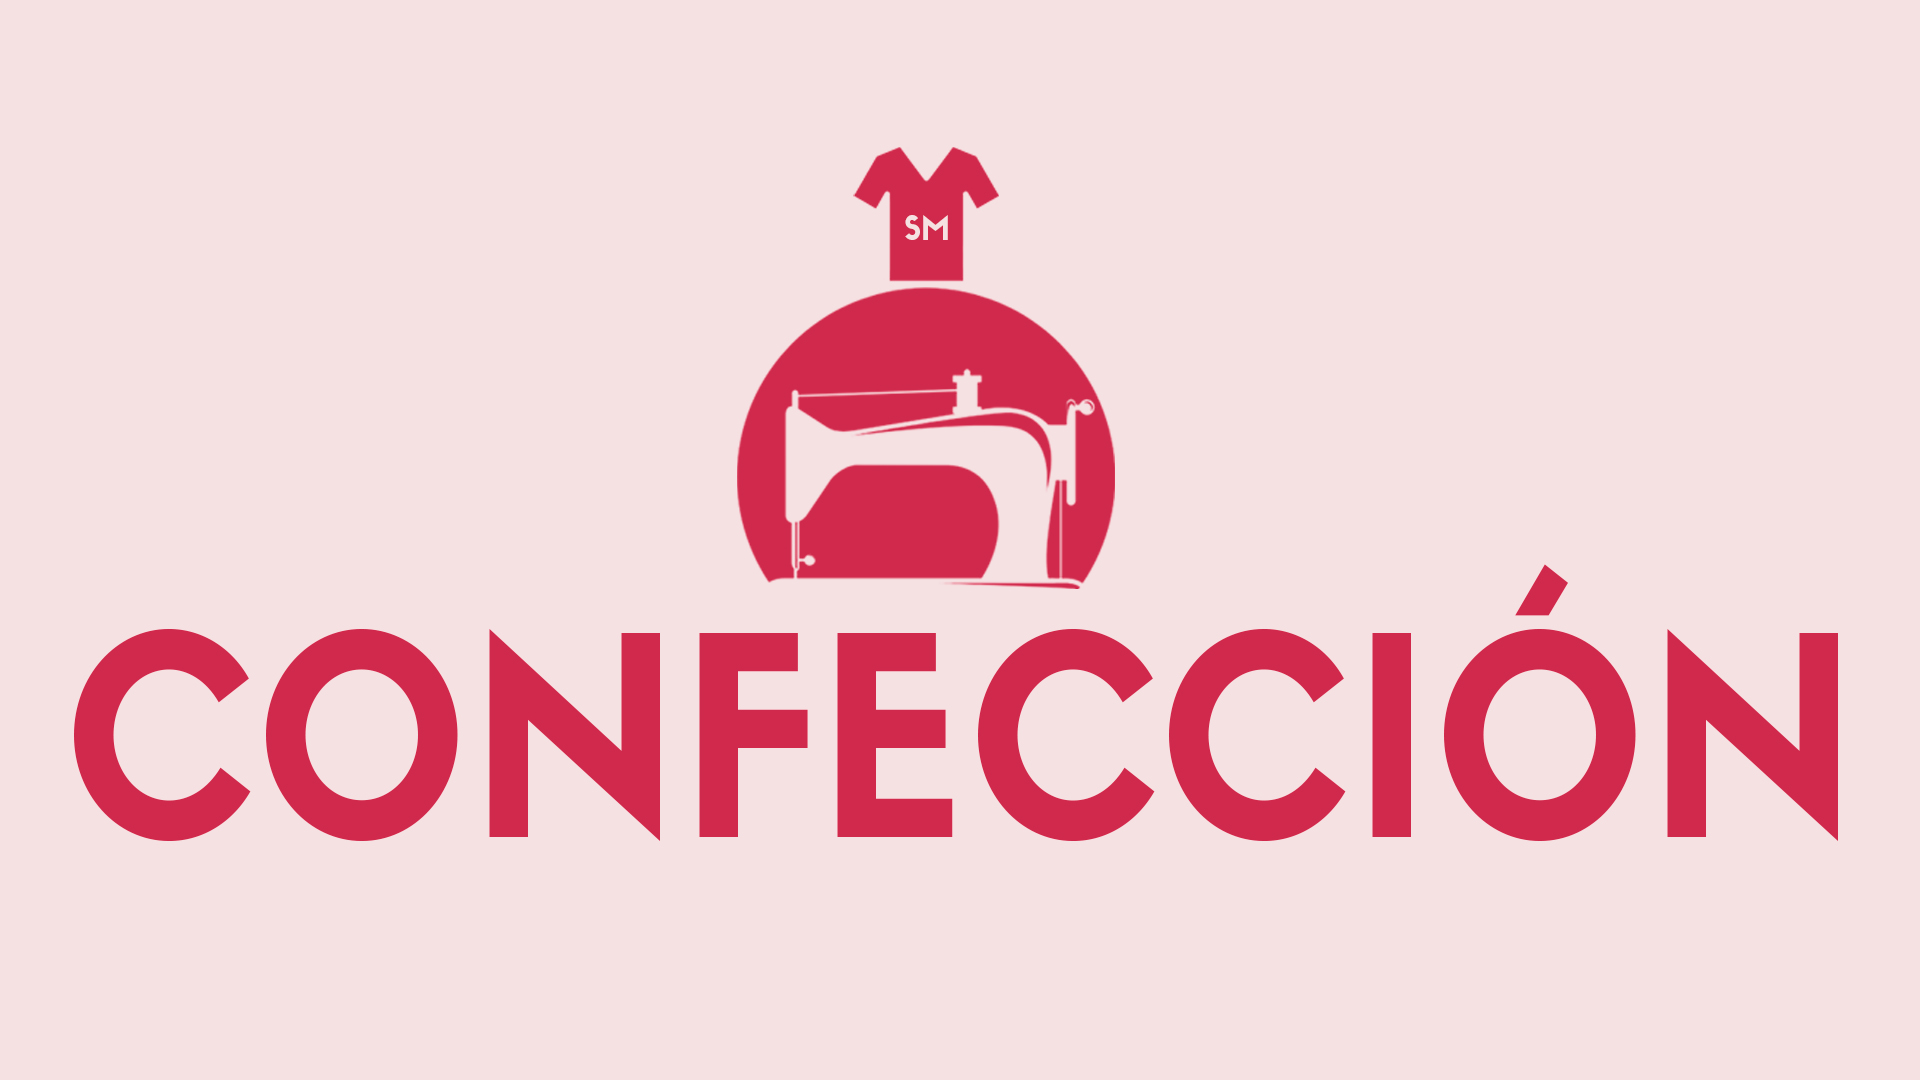
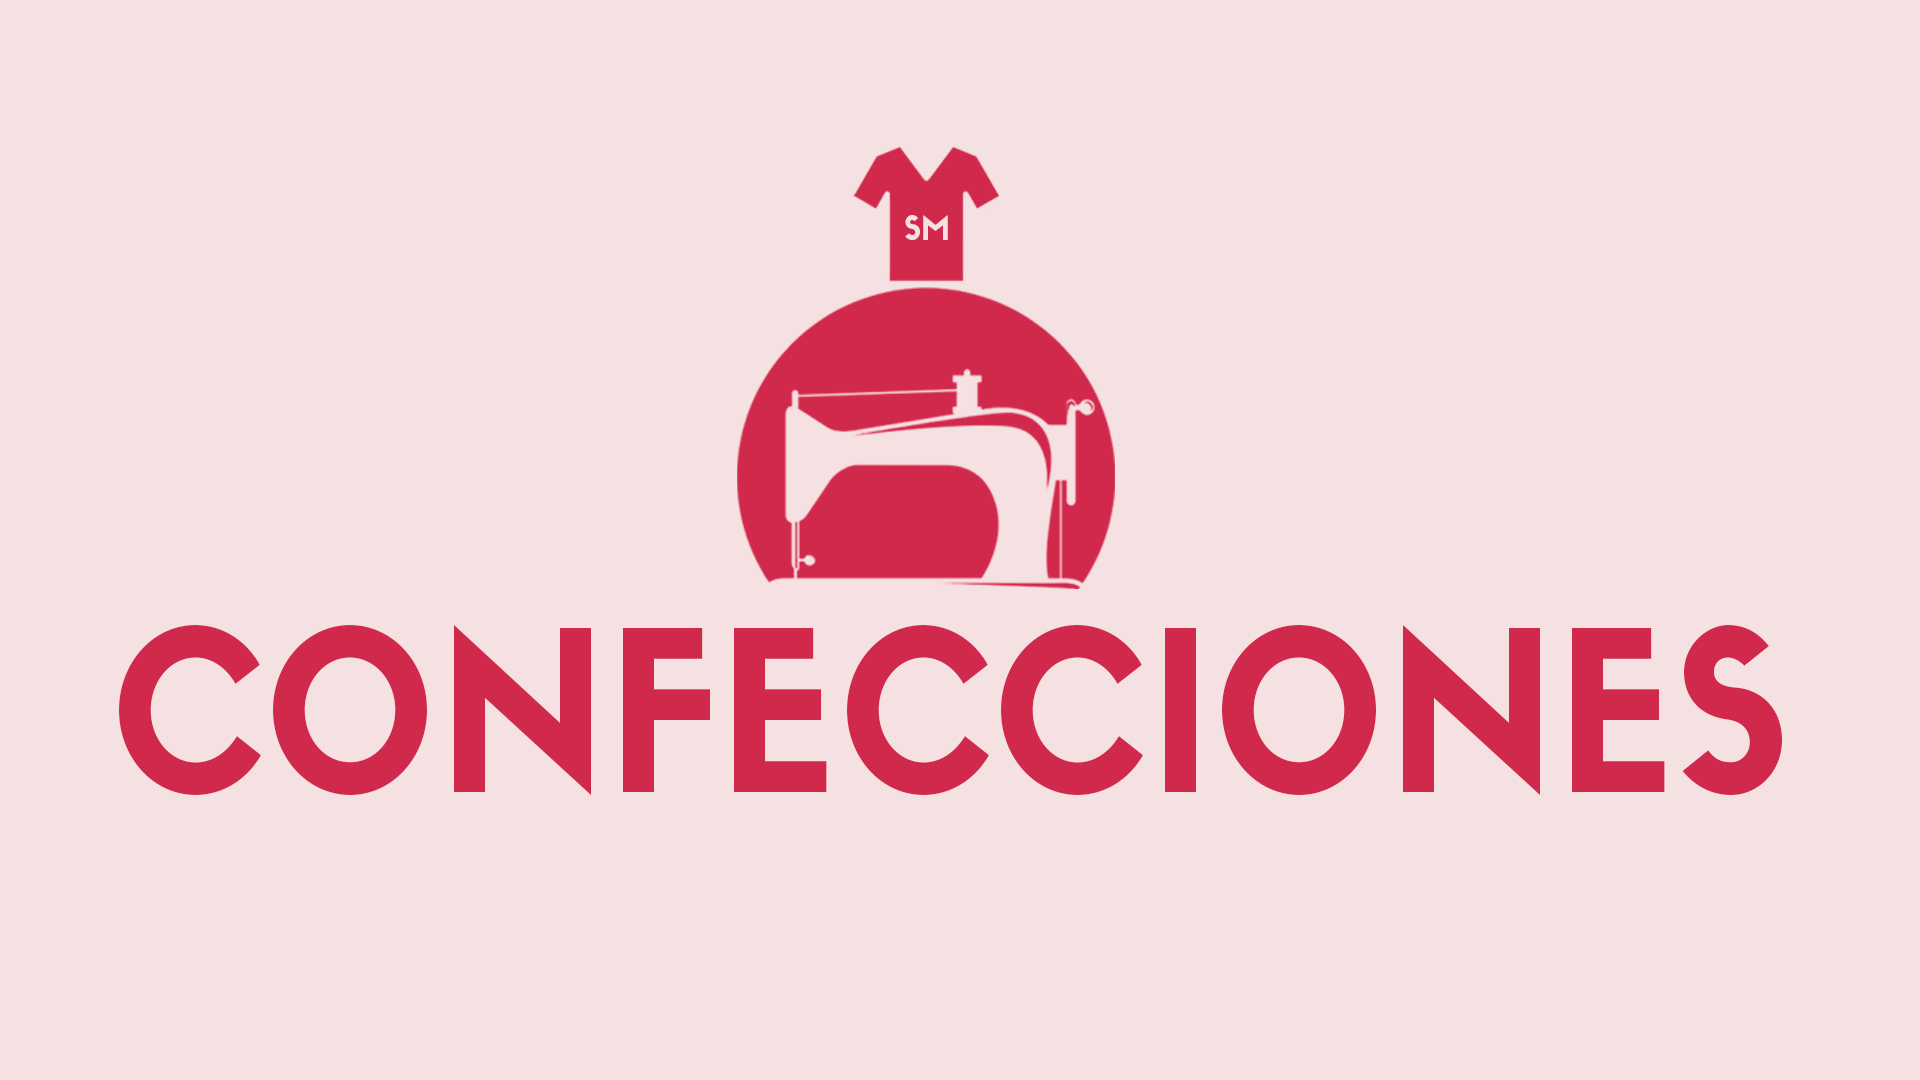
Initial commit from script

Changed region(s): [[0.0312, 0.5194, 0.9688, 0.7944]]

diff --git a/index.html b/index.html
@@ -8,7 +8,7 @@
       <meta name="viewport" content="width=device-width, initial-scale=1">
       <meta name="viewport" content="initial-scale=1, maximum-scale=1">
       <!-- site metas -->
-      <title>Confeccion</title>
+      <title>Confecciones</title>
       <meta name="keywords" content="">
       <meta name="description" content="">
       <meta name="author" content="">
@@ -69,7 +69,7 @@
                      <div class="row d_flex">
                         <div class="col-xl-5 col-lg-5 col-md-5 col-sm-12 ">
                            <div class="text-bg">
-                              <h1>Confeccion</h1>
+                              <h1>Confecciones</h1>
                               <a href="#">Contactanos</a>
                            </div>
                         </div>
@@ -93,13 +93,13 @@
                <div class="col-md-12">
                   <div class="titlepage">
                      <h2>Acerca de nosotros</h2>
-                     <p>En Confección, nos dedicamos a la creación de prendas que combinan calidad, estilo y funcionalidad. Desde nuestro inicio, hemos trabajado con esmero para ofrecer a nuestros clientes ropa que no solo sea estéticamente agradable, sino también duradera y cómoda, satisfaciendo las necesidades de aquellos que buscan lo mejor en moda.</p>
+                     <p>En Confecciones, nos dedicamos a la creación de prendas que combinan calidad, estilo y funcionalidad. Desde nuestro inicio, hemos trabajado con esmero para ofrecer a nuestros clientes ropa que no solo sea estéticamente agradable, sino también duradera y cómoda, satisfaciendo las necesidades de aquellos que buscan lo mejor en moda.</p>
 
-                     <p>Nuestro proceso de confección se centra en la utilización de materiales de primera calidad y técnicas avanzadas, asegurando que cada prenda que producimos cumpla con los más altos estándares. El equipo de diseñadores y costureros de Confección se esfuerza por capturar las últimas tendencias sin sacrificar la esencia de la moda clásica y atemporal.</p>
+                     <p>Nuestro proceso de confección se centra en la utilización de materiales de primera calidad y técnicas avanzadas, asegurando que cada prenda que producimos cumpla con los más altos estándares. El equipo de diseñadores y costureros de Confecciones se esfuerza por capturar las últimas tendencias sin sacrificar la esencia de la moda clásica y atemporal.</p>
 
-                     <p>Confección ofrece una amplia gama de productos que se adaptan a diversas ocasiones y estilos, desde ropa casual hasta atuendos más formales. Cada pieza es cuidadosamente diseñada y confeccionada para proporcionar una experiencia de uso que combine elegancia y comodidad, reflejando el compromiso de nuestra marca con la excelencia.</p>
+                     <p>Confecciones ofrece una amplia gama de productos que se adaptan a diversas ocasiones y estilos, desde ropa casual hasta atuendos más formales. Cada pieza es cuidadosamente diseñada y confeccionada para proporcionar una experiencia de uso que combine elegancia y comodidad, reflejando el compromiso de nuestra marca con la excelencia.</p>
 
-                     <p>En Confección, creemos que cada prenda debe ser una expresión de individualidad y buen gusto. Descubre nuestras colecciones y experimenta la diferencia que marca la confección de calidad, diseñada para realzar tu estilo único.</p>
+                     <p>En Confecciones, creemos que cada prenda debe ser una expresión de individualidad y buen gusto. Descubre nuestras colecciones y experimenta la diferencia que marca la confección de calidad, diseñada para realzar tu estilo único.</p>
 
                   </div>
                </div>

diff --git a/css/style.css b/css/style.css
@@ -994,7 +994,7 @@
  .text-bg h1 {
      color: #000;
      padding-top: 50px;
-     font-size: 70px;
+     font-size: 60px;
      line-height: 94px;
     padding-bottom: 25px;
     font-weight: bold;

diff --git a/css/responsive.css b/css/responsive.css
@@ -37,7 +37,7 @@
         width: 150px;
     }
     .text-bg h1{
-        font-size: 50px;
+        font-size: 45px;
         padding-top: 30px;
     }
 }
